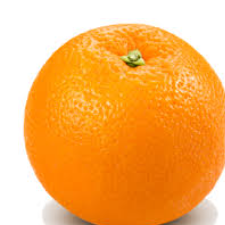
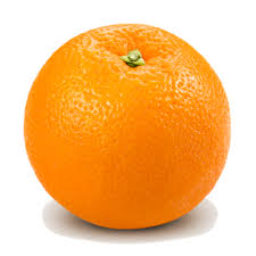
Resizing images

diff --git a/client/src/Predict.js b/client/src/Predict.js
@@ -61,10 +61,10 @@ export default function Predict() {
         img.src = e.target.result;
         img.onload = () => {
           const canvas = document.createElement('canvas');
-          canvas.width = img.width;
-          canvas.height = img.height;
+          canvas.width = 256;
+          canvas.height = 256;
           const ctx = canvas.getContext('2d');
-          ctx.drawImage(img, 0, 0);
+          ctx.drawImage(img, 0, 0, img.width, img.height, 0, 0, 256, 256);
           const imageData = ctx.getImageData(0, 0, canvas.width, canvas.height);
           setImageData(imageData);
         };

diff --git a/server/app.py b/server/app.py
@@ -21,8 +21,6 @@ def predict():
     data = request.get_json()
     # Convert to numpy array
     data = np.asarray(data, dtype=np.uint8)
-    print(data.shape)
-
     img = Image.fromarray(data, 'RGB')
     img.save('my.png')
     img.show()
